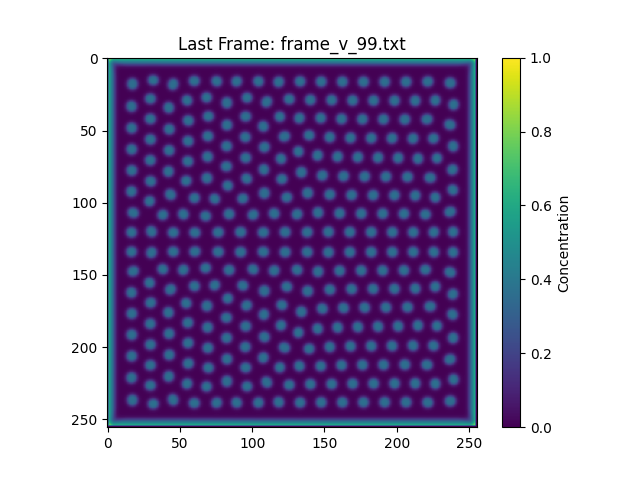
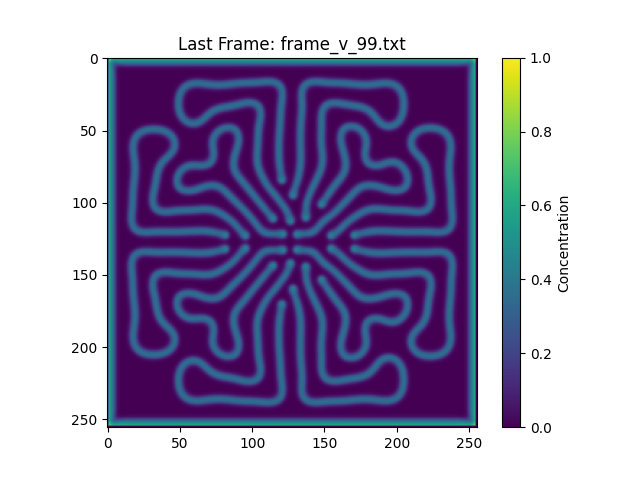
Worms config
-	Worms config is better :-)

Changed region(s): [[0.1875, 0.1562, 0.7188, 0.875]]

diff --git a/src/main.cpp b/src/main.cpp
@@ -17,7 +17,7 @@ using real = double ;
 const real Du = 0.16 ; 
 const real Dv = 0.08 ; 
 const real k = 0.065 ; 
-const real F = 0.035 ; 
+const real F = 0.050 ; 
 const real dt = 1.0 ;
 
 const int frames = 100; 
